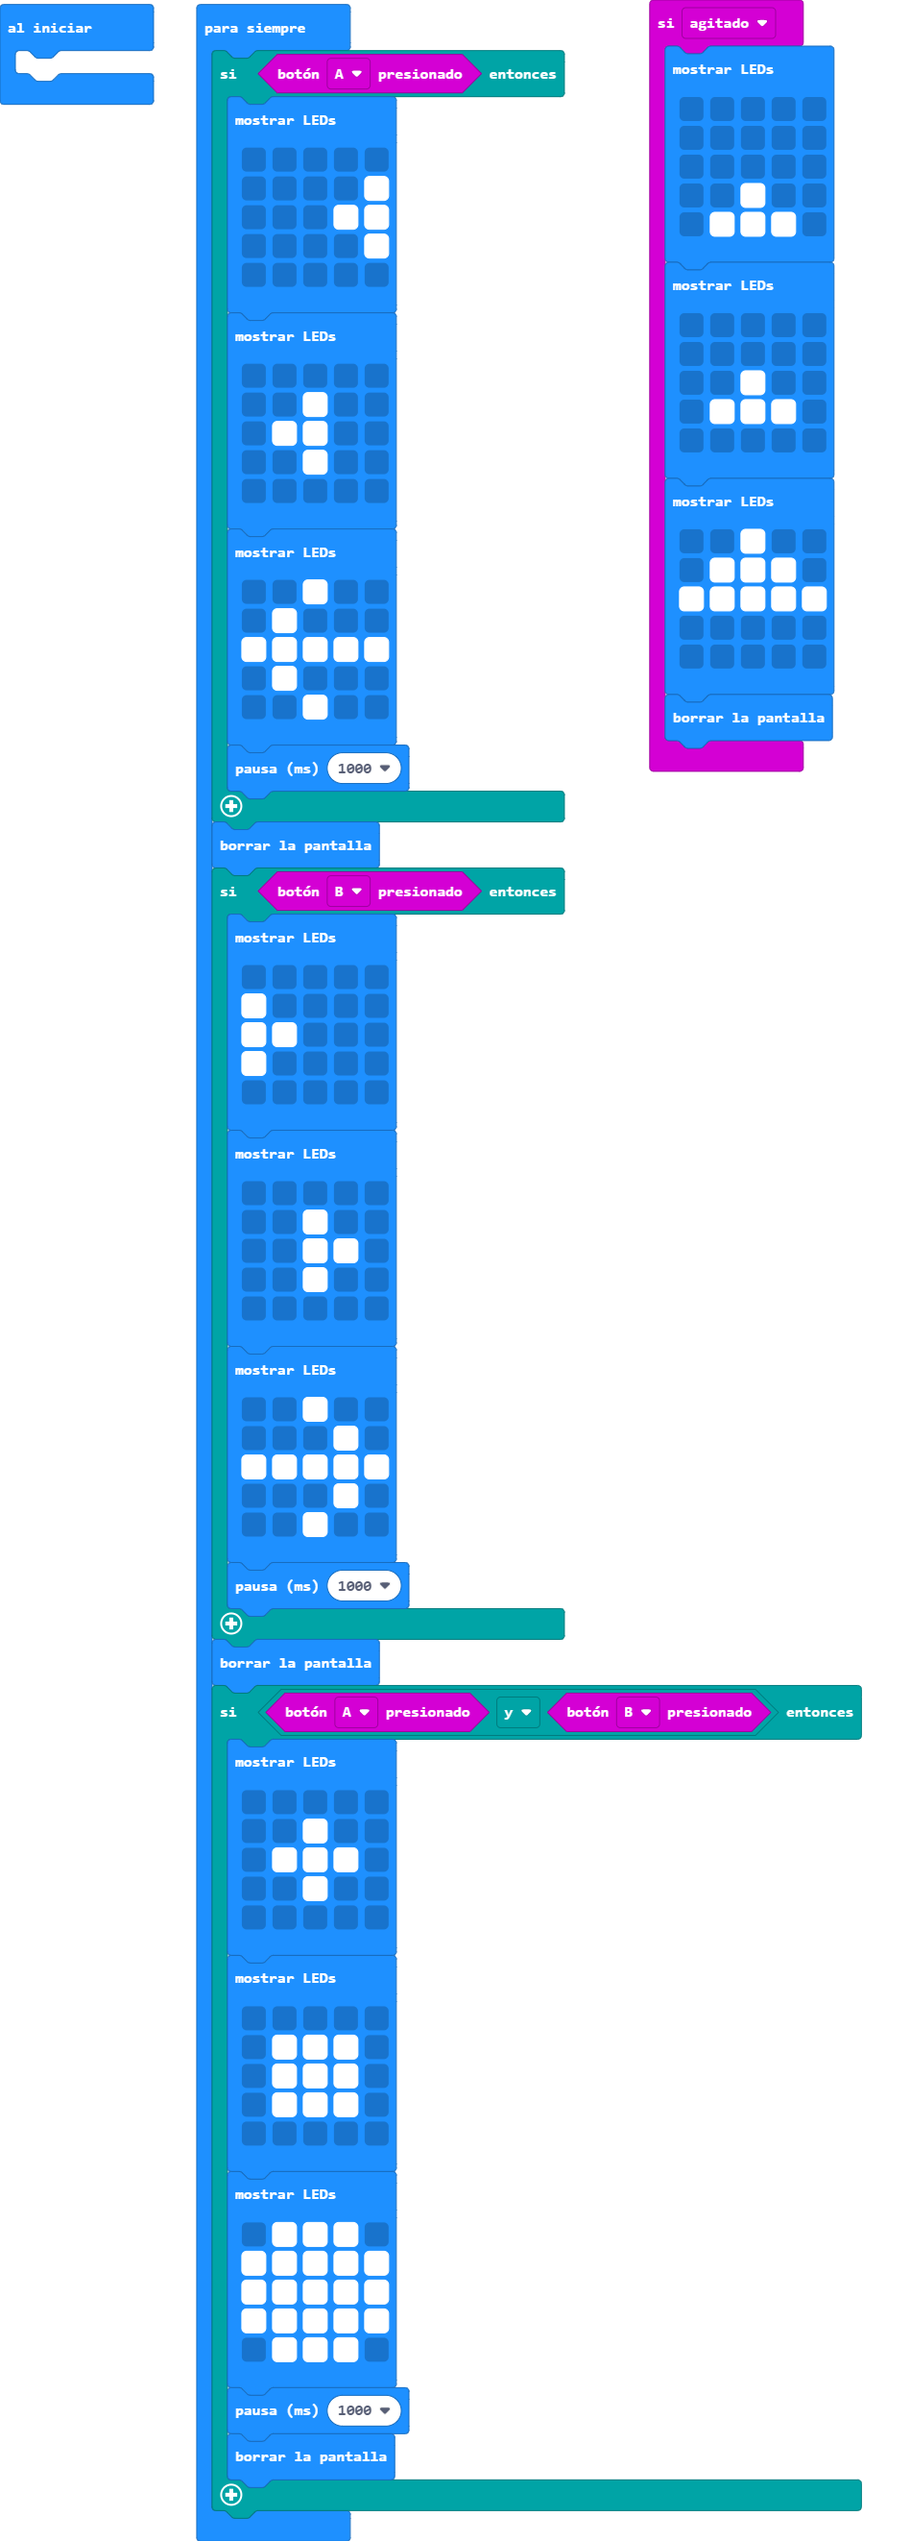
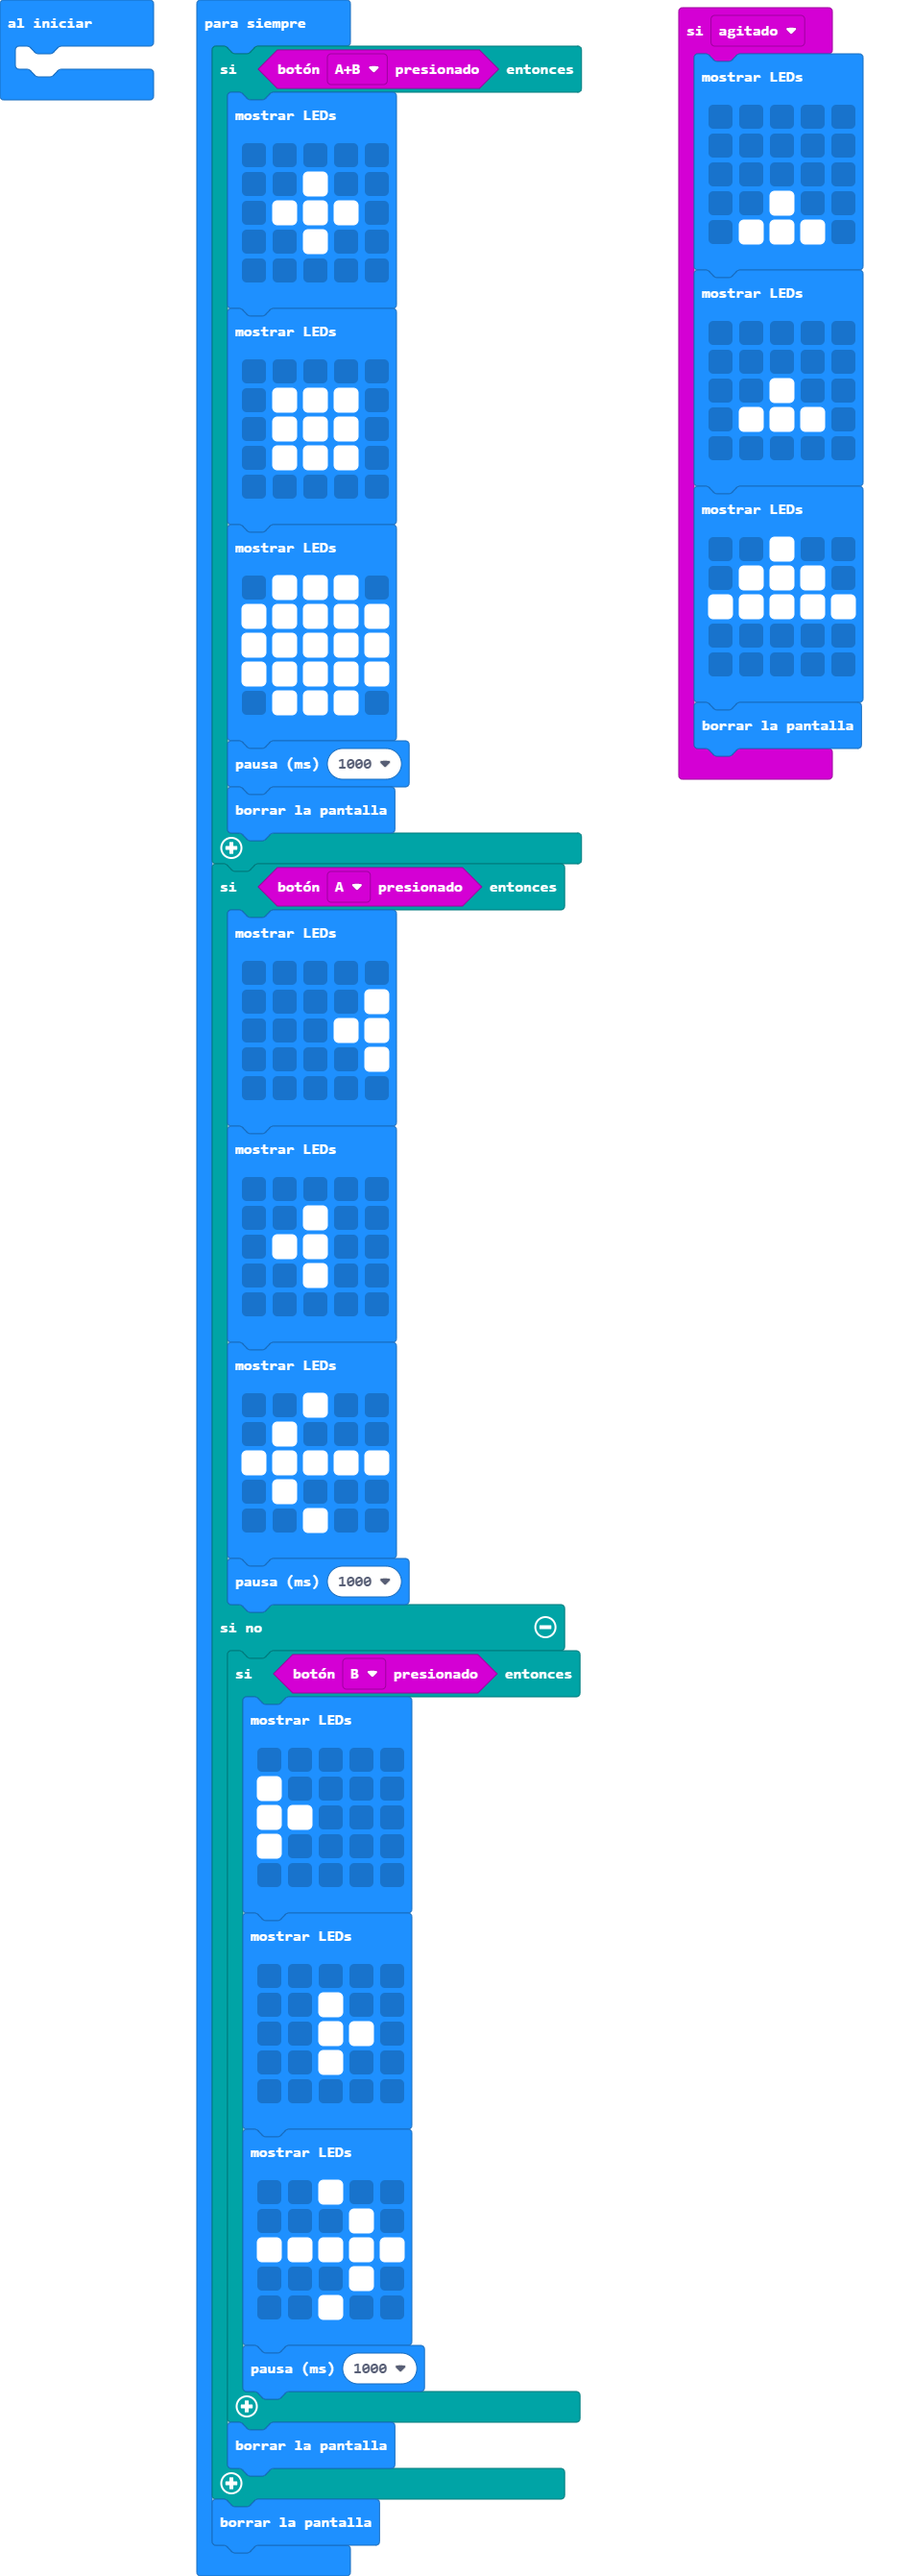
Orden de la secuencia

Changed region(s): [[0.2139, 0.0, 0.9473, 0.9921], [0.7028, 0.0, 0.9473, 0.31], [0.0, 0.0, 0.1834, 0.062]]

diff --git a/main.ts b/main.ts
@@ -23,57 +23,7 @@ input.onGesture(Gesture.Shake, function () {
     basic.clearScreen()
 })
 basic.forever(function () {
-    if (input.buttonIsPressed(Button.A)) {
-        basic.showLeds(`
-            . . . . .
-            . . . . #
-            . . . # #
-            . . . . #
-            . . . . .
-            `)
-        basic.showLeds(`
-            . . . . .
-            . . # . .
-            . # # . .
-            . . # . .
-            . . . . .
-            `)
-        basic.showLeds(`
-            . . # . .
-            . # . . .
-            # # # # #
-            . # . . .
-            . . # . .
-            `)
-        basic.pause(1000)
-    }
-    basic.clearScreen()
-    if (input.buttonIsPressed(Button.B)) {
-        basic.showLeds(`
-            . . . . .
-            # . . . .
-            # # . . .
-            # . . . .
-            . . . . .
-            `)
-        basic.showLeds(`
-            . . . . .
-            . . # . .
-            . . # # .
-            . . # . .
-            . . . . .
-            `)
-        basic.showLeds(`
-            . . # . .
-            . . . # .
-            # # # # #
-            . . . # .
-            . . # . .
-            `)
-        basic.pause(1000)
-    }
-    basic.clearScreen()
-    if (input.buttonIsPressed(Button.A) && input.buttonIsPressed(Button.B)) {
+    if (input.buttonIsPressed(Button.AB)) {
         basic.showLeds(`
             . . . . .
             . . # . .
@@ -98,4 +48,55 @@ basic.forever(function () {
         basic.pause(1000)
         basic.clearScreen()
     }
+    if (input.buttonIsPressed(Button.A)) {
+        basic.showLeds(`
+            . . . . .
+            . . . . #
+            . . . # #
+            . . . . #
+            . . . . .
+            `)
+        basic.showLeds(`
+            . . . . .
+            . . # . .
+            . # # . .
+            . . # . .
+            . . . . .
+            `)
+        basic.showLeds(`
+            . . # . .
+            . # . . .
+            # # # # #
+            . # . . .
+            . . # . .
+            `)
+        basic.pause(1000)
+    } else {
+        if (input.buttonIsPressed(Button.B)) {
+            basic.showLeds(`
+                . . . . .
+                # . . . .
+                # # . . .
+                # . . . .
+                . . . . .
+                `)
+            basic.showLeds(`
+                . . . . .
+                . . # . .
+                . . # # .
+                . . # . .
+                . . . . .
+                `)
+            basic.showLeds(`
+                . . # . .
+                . . . # .
+                # # # # #
+                . . . # .
+                . . # . .
+                `)
+            basic.pause(1000)
+        }
+        basic.clearScreen()
+    }
+    basic.clearScreen()
 })
